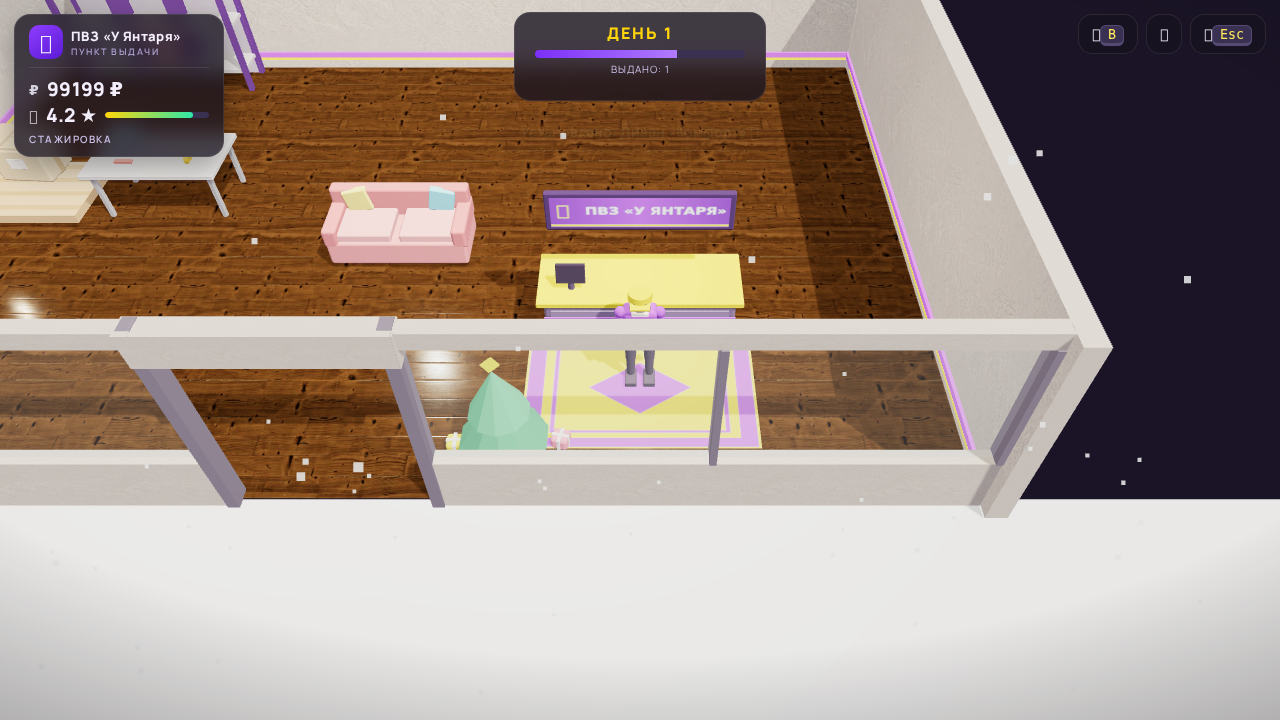
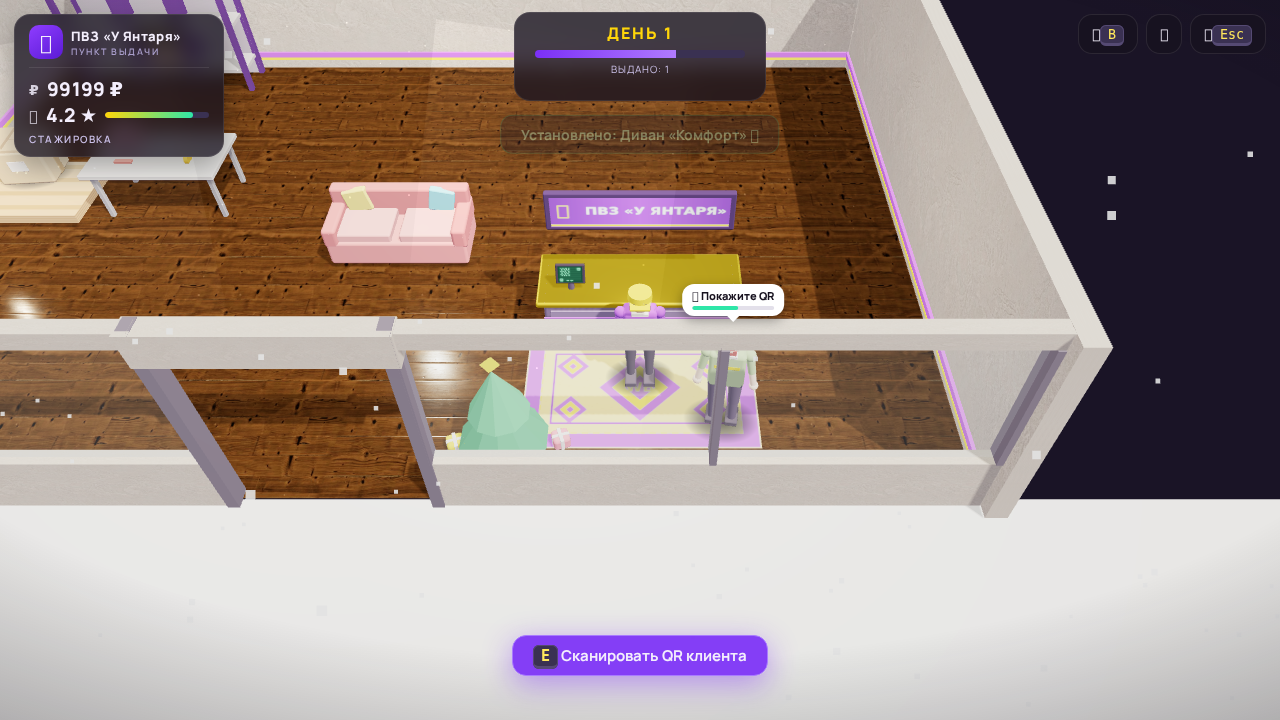
v0.7: контактные тени, солнечный луч и пылинки, золото стойки, QR-экран терминала, ленты WB, новый ковёр, тёплое лицо

diff --git a/game.js b/game.js
@@ -10,6 +10,37 @@
 const HIT_MAT = new THREE.MeshBasicMaterial({ visible: false });
 const HIT_BOX = new THREE.BoxGeometry(0.72, 0.72, 0.72);
 
+// Контактная тень-«блин»: дёшево вместо SSAO, сильно заземляет объекты
+let blobMat = null;
+const blobGeo = new THREE.PlaneGeometry(1, 1);
+function getBlobMat() {
+  if (!blobMat) {
+    const tex = makeCanvas(128, 128, (g, w, h) => {
+      const grad = g.createRadialGradient(w / 2, h / 2, 6, w / 2, h / 2, w / 2);
+      grad.addColorStop(0, 'rgba(0,0,0,0.48)');
+      grad.addColorStop(0.55, 'rgba(0,0,0,0.26)');
+      grad.addColorStop(1, 'rgba(0,0,0,0)');
+      g.fillStyle = grad; g.fillRect(0, 0, w, h);
+    });
+    blobMat = new THREE.MeshBasicMaterial({ map: tex, transparent: true, depthWrite: false });
+  }
+  return blobMat;
+}
+function addBlobShadow(mesh, w = 1.02, d = 0.8) {
+  const m = new THREE.Mesh(blobGeo, getBlobMat());
+  m.rotation.x = -Math.PI / 2;
+  m.scale.set(w, d, 1);
+  m.position.y = 0.017;
+  m.renderOrder = 1;
+  m.name = 'blobShadow';
+  mesh.add(m);
+  return m;
+}
+function setBlobVisible(mesh, v) {
+  const b = mesh.getObjectByName('blobShadow');
+  if (b) b.visible = v;
+}
+
 // ---------- PBR-материалы: Lambert/Phong трактуем как Standard (иначе всё выглядит плоско) ----------
 (function upgradeLegacyMaterials() {
   const mk = (defRough, defMetal) => function (params) {
@@ -317,12 +348,39 @@ const TEX = {
     });
   },
   rug() {
-    return makeCanvas(256, 256, (g, w, h) => {
-      g.fillStyle = '#ffd60a'; g.fillRect(0, 0, w, h);
-      g.strokeStyle = '#7b2ff7'; g.lineWidth = 18; g.strokeRect(12, 12, w - 24, h - 24);
-      g.lineWidth = 5; g.strokeRect(34, 34, w - 68, h - 68);
-      g.fillStyle = '#7b2ff7';
-      g.save(); g.translate(w / 2, h / 2); g.rotate(Math.PI / 4); g.fillRect(-40, -40, 80, 80); g.restore();
+    return makeCanvas(512, 320, (g, w, h) => {
+      // база — плотное жёлтое полотно
+      g.fillStyle = '#f7c948'; g.fillRect(0, 0, w, h);
+      // шум волокон
+      for (let i = 0; i < 900; i++) { g.fillStyle = `rgba(120,80,0,${Math.random() * 0.14})`; g.fillRect(Math.random() * w, Math.random() * h, 3, 1.5); }
+      // внешняя фиолетовая кайма
+      g.strokeStyle = '#7b2ff7'; g.lineWidth = 34; g.strokeRect(20, 20, w - 40, h - 40);
+      // прошивка пунктиром поверх каймы
+      g.strokeStyle = '#ffd60a'; g.lineWidth = 3; g.setLineDash([14, 10]); g.strokeRect(38, 38, w - 76, h - 76); g.setLineDash([]);
+      // тонкая внутренняя линия
+      g.strokeStyle = '#5a1fd0'; g.lineWidth = 5; g.strokeRect(64, 64, w - 128, h - 128);
+      // угловые медальоны
+      const medallion = (x, y) => {
+        g.save(); g.translate(x, y); g.rotate(Math.PI / 4);
+        g.fillStyle = '#7b2ff7'; g.fillRect(-26, -26, 52, 52);
+        g.fillStyle = '#ffd60a'; g.fillRect(-16, -16, 32, 32);
+        g.fillStyle = '#7b2ff7'; g.fillRect(-6, -6, 12, 12);
+        g.restore();
+      };
+      medallion(104, 100); medallion(w - 104, 100); medallion(104, h - 100); medallion(w - 104, h - 100);
+      // центральный ромб с монограммой
+      g.save(); g.translate(w / 2, h / 2);
+      g.rotate(Math.PI / 4);
+      g.fillStyle = '#7b2ff7'; g.fillRect(-64, -64, 128, 128);
+      g.fillStyle = '#ffd60a'; g.fillRect(-44, -44, 88, 88);
+      g.fillStyle = '#7b2ff7'; g.fillRect(-24, -24, 48, 48);
+      g.rotate(-Math.PI / 4);
+      g.fillStyle = '#ffd60a'; g.font = '900 34px Arial Black, Arial'; g.textAlign = 'center'; g.textBaseline = 'middle';
+      g.fillText('WB', 0, 2);
+      g.restore();
+      // бахрома слева и справа
+      g.strokeStyle = '#7b2ff7'; g.lineWidth = 4;
+      for (let y = 26; y < h - 20; y += 12) { g.beginPath(); g.moveTo(6, y); g.lineTo(18, y); g.stroke(); g.beginPath(); g.moveTo(w - 18, y); g.lineTo(w - 6, y); g.stroke(); }
     });
   },
   rugB() { // ковёр премиум: глубокий красный + золото
@@ -627,6 +685,66 @@ function buildSeasonDecor() {
   });
 }
 
+// Солнечный луч и пылинки — «киношный» воздух в зале
+let dust = null, dustSeed = null;
+const shaftMats = [];
+function buildLightShaft() {
+  const gradTex = makeCanvas(64, 256, (g, w, h) => {
+    const grad = g.createLinearGradient(0, 0, 0, h);
+    grad.addColorStop(0, 'rgba(255, 236, 190, 0.85)');
+    grad.addColorStop(0.65, 'rgba(255, 236, 190, 0.18)');
+    grad.addColorStop(1, 'rgba(255, 236, 190, 0)');
+    g.fillStyle = grad; g.fillRect(0, 0, w, h);
+  });
+  for (const [x, rotZ, op] of [[-3.4, 0.16, 0.085], [2.6, -0.14, 0.065]]) {
+    const shaft = new THREE.Mesh(
+      new THREE.PlaneGeometry(3.4, 6.2),
+      new THREE.MeshBasicMaterial({ map: gradTex, transparent: true, opacity: op, blending: THREE.AdditiveBlending, depthWrite: false, side: THREE.DoubleSide, fog: false })
+    );
+    shaft.position.set(x, 1.85, 3.15);
+    shaft.rotation.set(-0.72, 0, rotZ);
+    shaft.renderOrder = 2;
+    world.add(shaft);
+    shaftMats.push(shaft.material);
+  }
+  // пылинки
+  const N = 80;
+  const pos = new Float32Array(N * 3);
+  dustSeed = new Float32Array(N * 2);
+  for (let i = 0; i < N; i++) {
+    pos[i * 3] = rand(-7.5, 7.5);
+    pos[i * 3 + 1] = rand(0.3, 2.9);
+    pos[i * 3 + 2] = rand(-4.8, 4.5);
+    dustSeed[i * 2] = rand(0.1, 0.5);
+    dustSeed[i * 2 + 1] = rand(0, Math.PI * 2);
+  }
+  const geo = new THREE.BufferGeometry();
+  geo.setAttribute('position', new THREE.BufferAttribute(pos, 3));
+  const dotTex = makeCanvas(32, 32, (g, w, h) => {
+    const grad = g.createRadialGradient(w / 2, h / 2, 1, w / 2, h / 2, w / 2);
+    grad.addColorStop(0, 'rgba(255,240,205,1)');
+    grad.addColorStop(1, 'rgba(255,240,205,0)');
+    g.fillStyle = grad; g.fillRect(0, 0, w, h);
+  });
+  dust = new THREE.Points(geo, new THREE.PointsMaterial({ size: 0.055, map: dotTex, transparent: true, opacity: 0.55, blending: THREE.AdditiveBlending, depthWrite: false, sizeAttenuation: true }));
+  dust.renderOrder = 2;
+  world.add(dust);
+}
+function updateDust(dt, t) {
+  if (!dust) return;
+  const pos = dust.geometry.attributes.position.array;
+  for (let i = 0; i < dustSeed.length / 2; i++) {
+    const sp = dustSeed[i * 2], ph = dustSeed[i * 2 + 1];
+    pos[i * 3] += Math.sin(t * 0.35 + ph) * 0.03 * dt + 0.008 * dt;
+    pos[i * 3 + 1] += Math.cos(t * 0.28 + ph * 1.7) * 0.02 * dt;
+    pos[i * 3 + 2] += Math.cos(t * 0.3 + ph) * 0.025 * dt;
+    if (pos[i * 3] > 8) pos[i * 3] = -8;
+    if (pos[i * 3 + 1] > 3.1) pos[i * 3 + 1] = 0.3;
+    if (pos[i * 3 + 1] < 0.2) pos[i * 3 + 1] = 2.9;
+  }
+  dust.geometry.attributes.position.needsUpdate = true;
+}
+
 // Падающий снег снаружи витрины
 let snow = null, snowSpeeds = null;
 function buildSnow() {
@@ -679,9 +797,30 @@ function buildCounter() {
   const g = new THREE.Group();
   const base = boxMesh(2.8, 1.0, 0.95, 0x4a3b66); base.position.y = 0.5; g.add(base);
   const panel = boxMesh(2.6, 0.7, 0.04, 0x5b4a80); panel.position.set(0, 0.55, 0.49); g.add(panel);
-  const top = boxMesh(3.0, 0.09, 1.1, 0xffd60a); top.position.y = 1.05; g.add(top);
+  const top = new THREE.Mesh(new THREE.RoundedBoxGeometry(3.0, 0.09, 1.1, 2, 0.035),
+    new THREE.MeshStandardMaterial({ color: 0xffd60a, roughness: 0.24, metalness: 0.88, emissive: 0x2e1c00 }));
+  top.position.y = 1.05; top.castShadow = true; top.receiveShadow = true; g.add(top);
   const stripe = boxMesh(2.8, 0.16, 0.02, 0x7b2ff7); stripe.position.set(0, 0.72, 0.52); g.add(stripe);
   const term = boxMesh(0.42, 0.3, 0.06, 0x17121f); term.position.set(-1.0, 1.37, 0.2); term.rotation.x = -0.25; g.add(term);
+  if (!window.__qrScreenTex) {
+    window.__qrScreenTex = makeCanvas(128, 96, (g, w, h) => {
+      g.fillStyle = '#06180e'; g.fillRect(0, 0, w, h);
+      g.strokeStyle = 'rgba(70,255,150,0.25)';
+      for (let y = 8; y < h - 10; y += 6) { g.beginPath(); g.moveTo(8, y); g.lineTo(w - 8, y); g.stroke(); }
+      // QR-подобная матрица
+      g.fillStyle = '#46ff96';
+      const cell = 6, ox = 14, oy = 10;
+      const rng = (i) => ((i * 2654435761) >>> 0) % 100 < 46;
+      for (let r = 0; r < 8; r++) for (let c = 0; c < 8; c++) if (rng(r * 31 + c * 7 + 13)) g.fillRect(ox + c * cell, oy + r * cell, cell - 1.5, cell - 1.5);
+      // уголки-«поисковики» QR
+      const finder = (x, y) => { g.fillStyle = '#46ff96'; g.fillRect(x, y, 15, 15); g.fillStyle = '#06180e'; g.fillRect(x + 3, y + 3, 9, 9); g.fillStyle = '#46ff96'; g.fillRect(x + 5.5, y + 5.5, 4, 4); };
+      finder(w - 26, 8); finder(10, h - 22);
+      g.fillStyle = 'rgba(70,255,150,0.9)'; g.font = 'bold 11px monospace';
+      g.fillText('WB·QR', 44, h - 8);
+    });
+  }
+  const screen = new THREE.Mesh(new THREE.PlaneGeometry(0.35, 0.26), new THREE.MeshBasicMaterial({ map: window.__qrScreenTex }));
+  screen.position.set(0, 0, 0.032); term.add(screen);
   const termStand = cylMesh(0.03, 0.05, 0.28, 0x2b233c); termStand.position.set(-1.0, 1.22, 0.2); g.add(termStand);
   g.position.set(COUNTER_POS.x, 0, COUNTER_POS.z);
   world.add(g);
@@ -947,6 +1086,7 @@ function makeBigBoxMesh() {
     return pivot;
   };
   const hit = new THREE.Mesh(new THREE.BoxGeometry(1.15, 1.0, 0.95), HIT_MAT); hit.position.y = 0.42; g.add(hit);
+  addBlobShadow(g, 1.35, 1.1);
   const front = mkFlap(0.93, 0.05, 0.35, 0, 0.36, 0, -0.175);
   const back = mkFlap(0.93, 0.05, 0.35, 0, -0.36, 0, 0.175);
   const left = mkFlap(0.35, 0.05, 0.62, -0.475, 0, 0.175, 0);
@@ -975,11 +1115,28 @@ function spawnBigBox() {
   tagInteract(mesh, 'bigbox');
   return item;
 }
+let wbTapeMat = null;
+function getWBTapeMat() {
+  if (!wbTapeMat) {
+    const tex = makeCanvas(256, 64, (g, w, h) => {
+      g.fillStyle = '#ffd60a'; g.fillRect(0, 0, w, h);
+      g.fillStyle = '#7b2ff7';
+      for (let x = 0; x < w; x += 86) { g.font = '900 34px Arial Black, Arial'; g.textAlign = 'center'; g.textBaseline = 'middle'; g.fillText('WB', x + 43, h / 2 + 1); }
+      g.fillStyle = 'rgba(0,0,0,0.12)'; g.fillRect(0, 0, w, 4); g.fillRect(0, h - 4, w, 4);
+    });
+    tex.wrapS = tex.wrapT = THREE.RepeatWrapping;
+    wbTapeMat = new THREE.MeshStandardMaterial({ map: tex, roughness: 0.45, metalness: 0.05 });
+  }
+  return wbTapeMat;
+}
 function makeParcelMesh(color) {
   const g = new THREE.Group();
   const body = boxMesh(0.5, 0.34, 0.4, color, { roughness: 0.55 }); body.position.y = 0.17; g.add(body);
-  const tape = boxMesh(0.52, 0.345, 0.13, shade(color, -0.35), { roughness: 0.4 }); tape.position.y = 0.17; g.add(tape);
+  const tape = boxMesh(0.52, 0.345, 0.13, shade(color, -0.35), { roughness: 0.4 });
+  if (Math.random() < 0.45) tape.material = getWBTapeMat();
+  tape.position.y = 0.17; g.add(tape);
   const hit = new THREE.Mesh(HIT_BOX, HIT_MAT); hit.position.y = 0.2; g.add(hit);
+  addBlobShadow(g, 0.66, 0.52);
   return g;
 }
 function shade(hex, amt) {
@@ -1035,15 +1192,16 @@ function removeParcelWorld(parcel) {
 // ============================================================
 function makePerson({ body = 0x7b2ff7, skin = 0xf2c9a0, pants = 0x2b233c, hat = null, scale = 1, hair = null }) {
   const g = new THREE.Group();
-  const limbMat = (c, rough = 0.8) => new THREE.MeshStandardMaterial({ color: c, roughness: rough, metalness: 0.02 });
+  const limbMat = (c, rough = 0.8, emissive = 0x000000) => new THREE.MeshStandardMaterial({ color: c, roughness: rough, metalness: 0.02, emissive });
+  const skinMat = (c, rough = 0.6) => limbMat(c, rough, 0x1a0d07);
   // ---- ноги: группы в тазобедренных суставах, качание естественнее ----
   const hipY = 0.86;
   const mkLeg = (side) => {
     const hip = new THREE.Group();
     hip.position.set(0.135 * side, hipY, 0);
-    const thigh = new THREE.Mesh(new THREE.CylinderGeometry(0.095, 0.075, 0.40, 14), limbMat(pants));
+    const thigh = new THREE.Mesh(new THREE.CylinderGeometry(0.095, 0.075, 0.40, 14), limbMat(pants, 0.8));
     thigh.position.y = -0.20; thigh.castShadow = true; hip.add(thigh);
-    const shin = new THREE.Mesh(new THREE.CylinderGeometry(0.068, 0.058, 0.35, 14), limbMat(pants));
+    const shin = new THREE.Mesh(new THREE.CylinderGeometry(0.068, 0.058, 0.35, 14), limbMat(pants, 0.8));
     shin.position.y = -0.555; shin.castShadow = true; hip.add(shin);
     const shoe = boxMesh(0.17, 0.085, 0.30, 0x241f2e, { roughness: 0.45 }); shoe.position.set(0, -0.795, 0.055); hip.add(shoe);
     g.add(hip);
@@ -1056,10 +1214,12 @@ function makePerson({ body = 0x7b2ff7, skin = 0xf2c9a0, pants = 0x2b233c, hat = 
   const collar = boxMesh(0.24, 0.05, 0.275, 0xf6f2ea, { roughness: 0.6 }); collar.position.y = 1.455; g.add(collar);
   const belt = boxMesh(0.435, 0.06, 0.255, 0x241640, { roughness: 0.6 }); belt.position.y = 0.92; g.add(belt);
   // ---- шея и голова ----
-  const neck = new THREE.Mesh(new THREE.CylinderGeometry(0.055, 0.06, 0.1, 10), limbMat(skin, 0.75));
+  const neck = new THREE.Mesh(new THREE.CylinderGeometry(0.055, 0.06, 0.1, 10), skinMat(skin, 0.72));
   neck.position.y = 1.49; neck.castShadow = true; g.add(neck);
-  const head = new THREE.Mesh(new THREE.SphereGeometry(0.158, 20, 16), limbMat(skin, 0.62));
+  const head = new THREE.Mesh(new THREE.SphereGeometry(0.158, 20, 16), skinMat(skin, 0.58));
   head.position.y = 1.60; head.castShadow = true; g.add(head);
+  const nose = new THREE.Mesh(new THREE.SphereGeometry(0.017, 8, 6), limbMat(shade(skin, -0.18), 0.6));
+  nose.position.set(0, 1.583, 0.152); g.add(nose);
   // глаза: белок + зрачок, спокойное дружеское лицо
   const white = new THREE.MeshBasicMaterial({ color: 0xfdfbf7 });
   const pupil = new THREE.MeshBasicMaterial({ color: 0x241f2e });
@@ -1096,9 +1256,9 @@ function makePerson({ body = 0x7b2ff7, skin = 0xf2c9a0, pants = 0x2b233c, hat = 
     pad.position.y = 0.012; pad.castShadow = true; shoulder.add(pad);
     const upper = new THREE.Mesh(new THREE.CylinderGeometry(0.06, 0.052, 0.28, 12), limbMat(body, 0.78));
     upper.position.y = -0.165; upper.castShadow = true; shoulder.add(upper);
-    const fore = new THREE.Mesh(new THREE.CylinderGeometry(0.049, 0.045, 0.25, 12), limbMat(skin, 0.7));
+    const fore = new THREE.Mesh(new THREE.CylinderGeometry(0.049, 0.045, 0.25, 12), skinMat(skin, 0.66));
     fore.position.y = -0.42; fore.castShadow = true; shoulder.add(fore);
-    const hand = new THREE.Mesh(new THREE.SphereGeometry(0.063, 12, 10), limbMat(skin, 0.6));
+    const hand = new THREE.Mesh(new THREE.SphereGeometry(0.063, 12, 10), skinMat(skin, 0.55));
     hand.position.y = -0.565; hand.castShadow = true; shoulder.add(hand);
     shoulder.rotation.z = side * 0.17;
     g.add(shoulder);
@@ -1106,6 +1266,7 @@ function makePerson({ body = 0x7b2ff7, skin = 0xf2c9a0, pants = 0x2b233c, hat = 
   };
   const armL = mkArm(-1), armR = mkArm(1);
   g.scale.setScalar(scale);
+  addBlobShadow(g, 1.04, 0.8);
   g.userData.legs = [legL, legR];
   g.userData.arms = [armL, armR];
   return g;
@@ -2014,6 +2175,7 @@ function pickupFloorItem(item) {
   updateHUD();
 }
 function attachCarried(mesh) {
+  setBlobVisible(mesh, false);
   if (mesh.parent) mesh.parent.remove(mesh);
   mesh.position.set(0, 0.92, 0.34);
   mesh.rotation.set(0, 0, 0);
@@ -2021,6 +2183,7 @@ function attachCarried(mesh) {
 }
 function detachCarried() {
   const item = G.carried;
+  setBlobVisible(item.mesh, true);
   player.remove(item.mesh);
   world.add(item.mesh);
   tagInteract(item.mesh, item.kind === 'big' ? 'bigbox' : 'parcel');
@@ -2047,6 +2210,7 @@ function placeInCell(cell) {
   const parcel = item.parcel;
   removeFromFloorItems(parcel);
   untagInteract(parcel.mesh);
+  setBlobVisible(parcel.mesh, true);
   parcel.mesh.position.set(cell.x, cell.y, cell.z);
   parcel.mesh.rotation.y = rand(-0.15, 0.15);
   parcel.cell = cell;
@@ -2609,6 +2773,7 @@ function updateLoader(dt) {
 }
 function attachCarriedTo(L, mesh) {
   mesh.visible = true;
+  setBlobVisible(mesh, false);
   if (mesh.parent) mesh.parent.remove(mesh);
   mesh.position.set(0, 0.92, 0.34);
   mesh.rotation.set(0, 0, 0);
@@ -2958,6 +3123,7 @@ function tick() {
   const frame = Math.min(clock.getDelta(), 0.5);
   const t = clock.elapsedTime;
   updateSnow(frame, t);
+  updateDust(frame, t);
   stepAcc += frame;
   let steps = 0;
   while (stepAcc >= FIXED_STEP && steps < MAX_STEPS) {
@@ -2982,7 +3148,7 @@ function tick() {
     sun.intensity = 0.45 + Math.random() * 0.1;
     lamp.intensity = 0.18 + Math.random() * 0.22;
   } else {
-    sun.intensity = 0.9;
+    sun.intensity = 0.85;
     lamp.intensity = 0.5 + Math.sin(t * 2) * 0.08;
   }
 
@@ -3010,6 +3176,7 @@ G.layoutsByLoc = loadLayouts();
 buildRoom();
 buildSeasonDecor();
 buildSnow();
+buildLightShaft();
 applyLayout(G.layoutsByLoc['metro'] != null ? G.layoutsByLoc['metro'] : 0);
 addShelf(0);
 

diff --git a/index.html b/index.html
@@ -112,7 +112,7 @@
 
         <button id="btn-start" class="big-btn menu-cta">Открыть смену →</button>
         <div class="menu-foot" id="menu-records">Рекорд ещё не установлен — станьте первым!</div>
-        <div class="menu-foot">WASD — бег · E — действие · клик по посылке — взять · B — магазин · <span id="app-version">v0.6</span></div>
+        <div class="menu-foot">WASD — бег · E — действие · клик по посылке — взять · B — магазин · <span id="app-version">v0.7</span></div>
       </div>
 
       <div class="menu-side">

diff --git a/sw.js b/sw.js
@@ -1,7 +1,7 @@
 // ПВЗ: С Нуля — service worker
 // Всё своё: сеть в приоритете, кэш — только как офлайн-запасной вариант.
 // Так новые версии долетают сразу, без «очистки сайта». При релизе бампать CACHE.
-const CACHE = 'pvz-v4';
+const CACHE = 'pvz-v5';
 const PRECACHE = [
   './',
   'index.html',

diff --git a/shot_live_v06.py b/shot_live_v06.py
@@ -1,0 +1,26 @@
+from playwright.sync_api import sync_playwright
+
+URL = "https://egzy164rus.github.io/Plz-game/"
+with sync_playwright() as p:
+    browser = p.chromium.launch(args=["--use-gl=swiftshader", "--enable-unsafe-swiftshader"])
+    page = browser.new_page(viewport={"width": 1280, "height": 720})
+    page.goto(URL, wait_until="networkidle")
+    page.wait_for_selector("#btn-start", state="visible", timeout=30000)
+    page.click("#btn-start")
+    page.wait_for_timeout(3600)
+
+    # крупный план: персонаж + зал с реалистичными материалами
+    page.evaluate("window.PVZ.debugSetCameraDist(5.2)")
+    page.evaluate("window.PVZ.applyLayout(0)")
+    page.wait_for_timeout(900)
+    page.screenshot(path="/home/user/pvz-game/shot_v06_close.png")
+
+    # нормальная дистанция
+    page.evaluate("window.PVZ.debugSetCameraDist(10.5)")
+    page.wait_for_timeout(700)
+    page.screenshot(path="/home/user/pvz-game/shot_v06_wide.png")
+
+    # Denis + короб в руках (вскроем короба не обязательно): просто кадр с NPC
+    d1 = decor_state = None
+    browser.close()
+print("done")

diff --git a/PROMPT.md b/PROMPT.md
@@ -245,6 +245,16 @@ game.js
 - ✅ Фикс stale-записей в floorItems при выкладке/выдаче посылки
 - ✅ CREDITS.md (лицензии CC0/OFL/MIT), SW cache pvz-v4 (network-first), версия в меню v0.6
 
-### 2.17. Мобильная версия
+### 2.17. Реализовано в v0.7 («киношный» свет и детали)
+
+- ✅ Контактные тени (blob) под всеми персонажами, посылками и коробами — дешёвый аналог SSAO, сильно заземляет объекты; тень прячется при переноске в руках
+- ✅ Солнечный луч из витрины (две контр-градиентные плоскости, additive) + дрейфующие пылинки в зале (Points, аддитивно) — воздух стал «живым»
+- ✅ Стойка: столешница — настоящее золото (metalness .88, мягкий блик); на терминале QR-экран (зелёная матрица, scanline) — как настоящий сканер
+- ✅ Короба на части посылок кинематографичные ленты WB (жёлтый с фиолетовым логотипом) вместо однотонной тёмной ленты
+- ✅ Ковёр переписан: волокна, пунктирная прошивка, угловые медальоны, центральный ромб с монограммой WB, бахрома
+- ✅ Кожа персонажей чуть тёплая (имитация подповерхностного рассеяния) + маленький нос — лица дружелюбнее
+- ✅ SW cache pvz-v5 (network-first), версия в меню v0.7
+
+### 2.18. Мобильная версия
 
 Левый виртуальный джойстик + правая кнопка «E», свайп — камера, кнопки магазина/паузы — тапы. Камера чуть выше и дальше.
